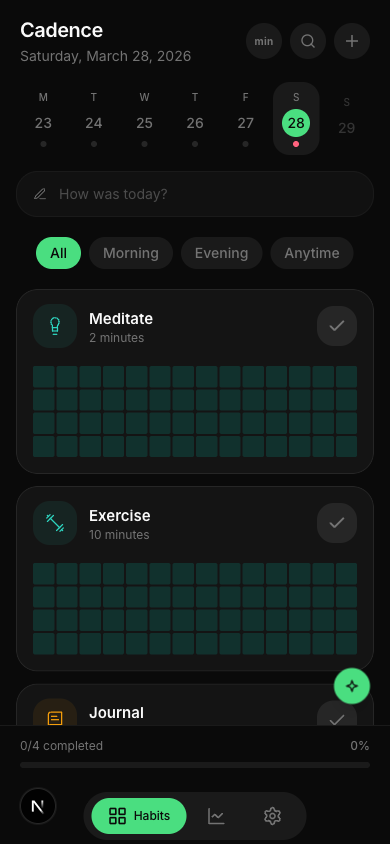
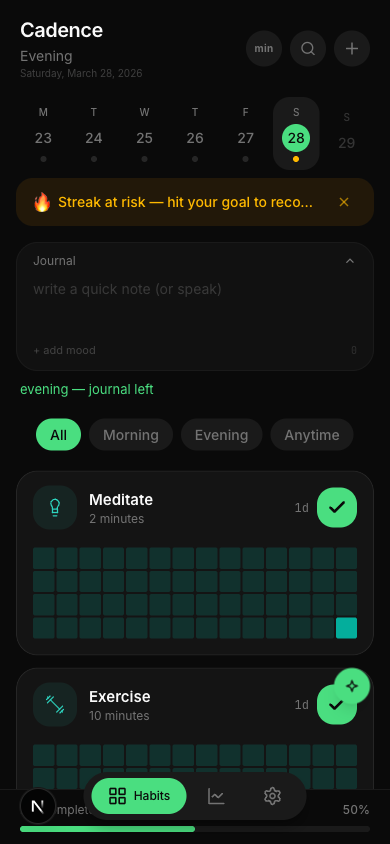
Update README with all features and new screenshots

diff --git a/README.md b/README.md
@@ -1,71 +1,84 @@
 # Cadence
 
-A personal habit tracking PWA that turns raw behavior data into actionable insights. Built with Next.js and GunDB
+A personal behavioral system disguised as a habit tracker. Built with Next.js, GunDB, and Gemini AI.
 
 **No account. No cloud. Your data stays on your device.**
 
 <p align="center">
-  <img src="docs/screenshots/01-onboarding-welcome.png" width="200" />
-  <img src="docs/screenshots/04-habits-checked.png" width="200" />
+  <img src="docs/screenshots/03-habits-page.png" width="200" />
   <img src="docs/screenshots/05-stats-page.png" width="200" />
+  <img src="docs/screenshots/07-add-habit.png" width="200" />
   <img src="docs/screenshots/06-settings-page.png" width="200" />
 </p>
 
-## Features
+---
 
-### Habit Tracking
-- Card-based habit list with per-habit mini heatmaps
-- Swipe right to complete, swipe left for edit/skip/archive
-- Inline friction scoring (easy/moderate/hard) after each completion
-- Per-habit colors, weekly day selector, category filters
-- Minimum mode for low-energy days (floor versions only)
-- Habit bundles for one-tap batch completion
+## Core Tracking
 
-<p align="center">
-  <img src="docs/screenshots/03-habits-page.png" width="250" />
-  <img src="docs/screenshots/07-add-habit.png" width="250" />
-</p>
-
-### AI Check-in
-Describe your day in text or voice. AI classifies which habits you completed, asks about uncertain ones, and lets you apply with one tap.
+- **Card-based habits** with per-habit mini heatmaps, monochrome icons, and per-habit color picker (8 colors)
+- **Swipe gestures** — right to complete, left to reveal edit/skip/archive
+- **Friction scoring** — inline 3-dot rating (easy/moderate/hard) after each completion
+- **Frequency types** — daily, weekdays, 3x/week, specific days
+- **Weekly day selector** with color-coded completion dots
+- **Category filter** — All / Morning / Evening / Anytime
+- **Historical editing** — past 3 days editable, retroactive entries marked
+- **Streak tracking** — period-based, respects frequency schedules
+- **Streak recovery** — 1-day grace period, max 2/week, requires 3+ day prior streak
+- **Skip intentionally** — log a skip with reason (Tired/Busy/Sick/Rest day), improves data quality
+- **Minimum mode** — toggle for bad days, shows only floor versions of habits
 
 <p align="center">
   <img src="docs/screenshots/08-checkin-drawer.png" width="250" />
 </p>
 
-### Voice Journal
-Tap the mic, speak, and your thoughts are transcribed via Gemini. Journal entries are linked to each day and feed into weekly reflections.
+## AI Features
 
-### Intelligence Layer
-- **System Health Score** — single 0-100 number showing if your system is stable, declining, or recovering
-- **Keystone Habit Detection** — surfaces habits that boost everything else when done
-- **Habit Decay Alerts** — flags habits dropping in consistency before you notice
-- **Root Cause Detection** — connects journal entries + friction to explain *why* you miss habits
-- **Focus Habit** — auto-highlights the habit most at risk of being skipped
-- **Time-to-Complete** — shows when you typically do each habit
-- **Streak Recovery** — 1-day grace period to recover a broken streak
+- **AI Check-in** — describe your day in text or voice, Gemini classifies which habits you completed, confirm with one tap
+- **Voice journal** — tap mic, speak, Gemini transcribes instantly. Per-day entries with optional mood tagging
+- **Full-screen voice mode** — mic expands to centered recording UI with waveform animation
+- **Weekly AI reflection** — streaming conversation with Gemini reviewing your week, pattern extraction saved for future sessions
+- **Reflection memory** — stores behavioral patterns across weeks, AI references them in future reflections
 
-### Stats
-- GitHub-style contribution heatmap (365 days)
-- Per-habit consistency ranking with progress bars
-- Best/worst day of week analysis
+## Intelligence Layer
 
-### Weekly Reflection
-AI-powered conversational review of your week. Surfaces what worked, what didn't, and suggests adjustments. Reflection patterns are saved and referenced in future weeks.
+- **Next Best Action** — one line telling you what to do right now, derived from dependencies + decay + time of day
+- **System Health Score** — 0-100 composite of completion, streaks, friction, and decay (hidden until 3+ days of data)
+- **Keystone habit detection** — surfaces habits that boost overall completion when done, with confidence levels
+- **Habit dependency graph** — pairwise relationships grouped as Boosters and Breakers with actionable suggestions
+- **Habit decay alerts** — flags habits dropping 20%+ in consistency
+- **Root cause detection** — correlates journal keywords + friction + skip reasons to explain why habits are missed
+- **Dead habit detection** — identifies habits at <10% for 14+ days, prompts to archive
+- **Long-term friction memory** — tracks consecutive weeks of high friction per habit
+- **Silent coaching nudges** — inline on habit cards: "inactive lately", "↓ try 1 minute", "personal best", "getting consistent", "↑ exercise helps"
+- **Time context awareness** — morning greeting, evening journal auto-expand, time-appropriate next actions
+- **Auto simplification** — when system health drops below 40%, automatically filters to floor-only habits
+- **Confidence layer** — every insight shows high/medium confidence based on sample size
 
-### Experiments
-Test a change to a habit (move to evening, change frequency) for 2 weeks, then see before/after comparison. Keep or revert with one tap.
+## Stats
 
-### Skip Intentionally
-Mark a habit as intentionally skipped with a reason. Removes guilt, improves data quality, and helps the AI understand your patterns.
+- **GitHub-style heatmap** — 365-day contribution grid with 5-level green color scale
+- **Per-habit consistency** — ranked list with progress bars and decay/friction warnings
+- **Connections** — Boosters and Breakers with impact percentages and suggestions
+- **Keystone habits** — habits that make everything else easier
+- **Timing** — when you typically complete each habit (mode-based)
+- **Inactive section** — dead habits with one-tap archive
 
-### Settings
-- Per-habit color picker (8 colors)
-- Accent color theming (7 options including white)
-- Daily goal slider
-- Push notification reminders
-- Data export (JSON + Markdown)
-- Encrypted API key storage (AES-256-GCM)
+## Organization
+
+- **Habit bundles** — group habits, one-tap complete all (max 3 bundles)
+- **Experiment mode** — test a change for 2 weeks, compare before/after, keep or revert
+- **Focus habit** — auto-highlighted habit most at risk of being skipped
+- **Search** — instant search across habits, journal entries, and #tags
+- **Context tags** — auto-extracted hashtags from journal text
+
+## Settings & Customization
+
+- **Per-habit colors** — 8 options per habit
+- **Accent color theming** — 7 app-wide options (white, teal, amber, green, rose, purple, blue)
+- **Daily goal slider** — 50-100%
+- **Push notification reminders** — daily at your chosen time via Web Push
+- **Data export** — JSON + Markdown
+- **Encrypted API key storage** — AES-256-GCM with non-extractable CryptoKey
 
 ## Tech Stack
 
@@ -93,13 +106,13 @@ Open [http://localhost:3000](http://localhost:3000).
 
 ### Environment Variables (optional)
 
-Push notifications require VAPID keys. Generate with:
+Push notifications require VAPID keys:
 
 ```bash
 npx web-push generate-vapid-keys
 ```
 
-Then set in `.env.local`:
+Add to `.env.local`:
 
 ```
 VAPID_PUBLIC_KEY=...
@@ -113,21 +126,21 @@ VAPID_MAILTO=mailto:you@example.com
 cadence-frontend/
   src/
     app/
-      api/           # Serverless API routes (transcribe, checkin, reminders, gemini)
-      page.tsx        # Entry point — onboarding gate → app shell
+      api/            # Serverless functions (transcribe, checkin, reminders, gemini)
+      page.tsx         # Onboarding gate → app shell
     components/
-      habits/         # Habit cards, journal, check-in, drawers
-      stats/          # Stats page, heatmap, health ring
-      system/         # Settings, experiments, bundles, reminders
-      layout/         # App shell, bottom tabs, header, accent provider
+      habits/          # Cards, journal, check-in, drawers, coaching nudges
+      stats/           # Heatmap, health ring, dependencies, consistency
+      system/          # Settings, experiments, bundles, reminders
+      layout/          # App shell, floating nav, header, accent provider
     lib/
-      gun/            # GunDB client, provider, data cache, types
-      hooks/          # All custom hooks (habits, logs, stats, journal, etc.)
-      crypto/         # API key encryption (AES-256-GCM key vault)
-      utils/          # Dates, frequency, tags, habit icons
+      gun/             # GunDB client, provider, data cache, types
+      hooks/           # 20+ custom hooks (habits, logs, stats, health, dependencies, etc.)
+      crypto/          # API key encryption (AES-256-GCM vault)
+      utils/           # Dates, frequency, tags, habit icons
 ```
 
-Data flows through a centralized `DataProvider` that loads all habits and logs once from GunDB, then all hooks derive from the shared cache. Tab switching is instant (CSS-hidden, not unmounted).
+Data flows through a centralized `DataProvider` that loads all habits and logs once from GunDB. All hooks derive from the shared cache. Tab switching is instant (CSS-hidden, not unmounted).
 
 ## License
 
